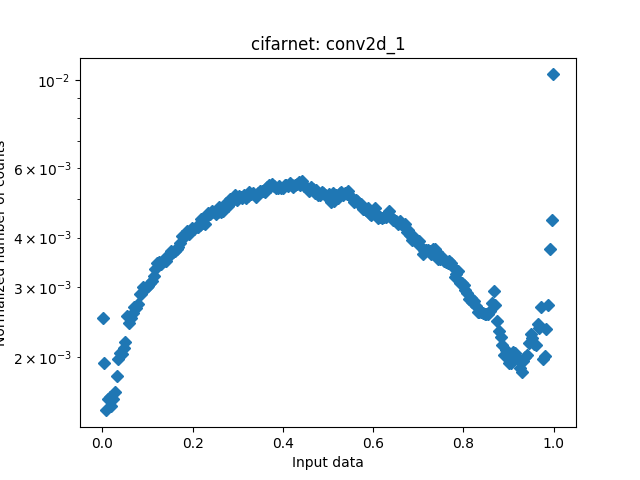
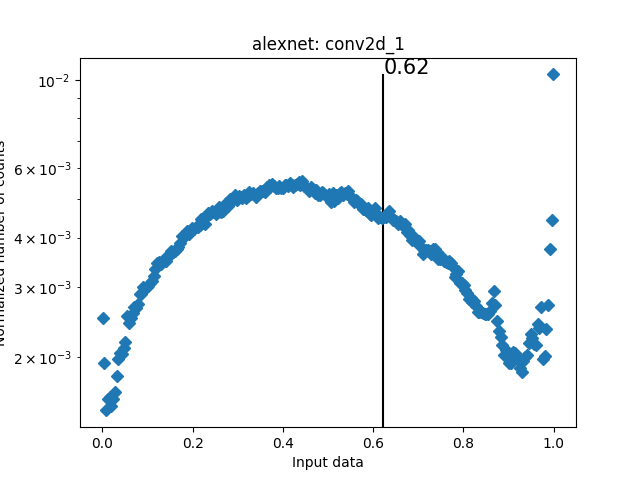
new get T method

Changed region(s): [[0.4062, 0.0625, 0.6875, 0.1562]]

diff --git a/alexnet/get_image_by_npy.py b/alexnet/get_image_by_npy.py
@@ -8,7 +8,7 @@ from tqdm import tqdm
 import json
 
 netname = 'alexnet'
-bin_num = 1024  # 2048
+bin_num = 2048  # 2048
 MIN_BINS = 128   # 128
 
 
@@ -35,26 +35,26 @@ def compute_kl_divergence(P,Q):
     for i in range(length):
         if P[i]!=0:
             if Q[i]==0:
-                sum+=1
+                sum+=1.0
             else:
-                sum+=P[i]*np.log(P[i]/Q[i])
+                sum+=P[i]*np.log((P[i]+1e-5)/(Q[i]+1e-5))
     return sum
 
 
 def threshold_distribution(distribution,target_bin):
+    KL_list = []
+    
     target_threshold = target_bin
     min_kl_divergence = 10000000000000
     length = len(distribution)
 
-
-
-    for threshold in range(target_bin,length):
+    for threshold in tqdm(range(target_bin,length)):
         #t_distribution=np.empty((threshold,))
         t_distribution=copy.deepcopy(distribution[0:threshold])
         t_distribution[threshold - 1] += np.sum(distribution[threshold:])
 
         #get P
-        num_per_bin = threshold / target_bin
+        num_per_bin = float(threshold) / float(target_bin)
 
         quantize_distribution = np.zeros((target_bin,))
 
@@ -85,14 +85,14 @@ def threshold_distribution(distribution,target_bin):
             count = 0
 
             left_upper = int(np.ceil(start))
-            left_scale = 0
+            left_scale = 0.0
             if left_upper > start:
                 left_scale = left_upper - start
                 if t_distribution[left_upper - 1] != 0:
                     count += left_scale
 
             right_lower = int(np.floor(end))
-            right_scale = 0
+            right_scale = 0.0
             if right_lower < end:
                 right_scale = end - right_lower
                 if t_distribution[right_lower] != 0:
@@ -113,22 +113,18 @@ def threshold_distribution(distribution,target_bin):
             for j in range(left_upper,right_lower):
                 if t_distribution[j] != 0:
                     expand_distribution[j] += expand_value
-
         kl_divergence = compute_kl_divergence(t_distribution, expand_distribution)
-
-        #print(threshold,kl_divergence)
-
+        KL_list.append(kl_divergence)
         if kl_divergence < min_kl_divergence:
             min_kl_divergence = kl_divergence
             target_threshold = threshold
 
-    return target_threshold
+    return target_threshold, KL_list
 
 def save_dict(filename, dic):
     '''save dict into json file'''
     with open(filename,'w') as json_file:
         json.dump(dic, json_file, ensure_ascii=False)
-
         
 d = {}
 d['first'] = 'conv2d_1'
@@ -147,17 +143,17 @@ for filename in os.listdir("./layerdata/"):
 
         print("\tgenerate histogram data")
         x, y = get_histogram(data, bin_num)
+        y = y / float(np.sum(y))
         print("\tget threshold")
-        threshold_at_num = threshold_distribution(y, MIN_BINS)
+        threshold_at_num, KL_list = threshold_distribution(y, MIN_BINS)
         threshold = x[threshold_at_num]
 
-        y = y / float(np.sum(y))
 
         print("\tdraw figure...")
         # plt.yscale('symlog', linthreshx=0.0000002)
-        plt.title('{0}: {1}'.format(netname, layer_name))
-        plt.xlabel('Input data')
-        plt.ylabel('Normalized number of counts')
+        plt.title('{0}: {1}'.format(netname, layer_name), fontsize=10)
+        plt.xlabel('Input data', fontsize=10)
+        plt.ylabel('Normalized number of counts', fontsize=10)
         # plt.ylabel('number of counts')
         
         y_tick = [10**i for i in range(-9, 1)]
@@ -167,8 +163,21 @@ for filename in os.listdir("./layerdata/"):
         plt.text(threshold, np.max(y), "%.2f" % (threshold), fontsize=15)
         # plt.scatter(x, y, marker='o')
         plt.semilogy(x, y, '.', marker='D')
-        plt.savefig("./layerdata/" + layer_name + ".png")
-        print("\t./layerdata/" + layer_name + '.png saved')
+        plt.savefig("./layerdata/" + netname + "_" + layer_name + ".png")
+        print("\t./layerdata/" +  netname + "_" + layer_name + '.png saved')
+        plt.cla()
+        
+        plt.title('{0}: {1}'.format(netname, layer_name), fontsize=15)
+        plt.xlabel('Input data', fontsize=15)
+        plt.ylabel('KL-divergence', fontsize=15)
+        # plt.ylabel('number of counts')
+        
+        y_tick = [10**i for i in range(-9, 1)]
+        plt.yticks(y_tick)
+        # plt.scatter(x[MIN_BINS:], KL_list, marker='o')
+        plt.semilogy(x[MIN_BINS:], KL_list, '.', marker='D')
+        plt.savefig("./layerdata/" + netname + "_" + layer_name + "_KL" + ".png")
+        print("\t./layerdata/" +  netname + "_" + layer_name + '.png saved')
         plt.cla()
         
         scale = 1.0 * MAX_INT / threshold

diff --git a/cifarnet/get_image_by_npy.py b/cifarnet/get_image_by_npy.py
@@ -7,9 +7,9 @@ import os
 from tqdm import tqdm
 import json
 
-netname = 'alexnet'
+netname = 'cifarnet'
 bin_num = 1024   # 2048
-MIN_BINS = 128   # 128
+MIN_BINS = 520   # 128
 
 
 MAX_INT = 127
@@ -156,15 +156,15 @@ for filename in os.listdir("./layerdata/"):
         print("\tdraw figure...")
         # plt.yscale('symlog', linthreshx=0.0000002)
         plt.title('{0}: {1}'.format(netname, layer_name))
-        plt.xlabel('Activation value')
-        # plt.ylabel('Normalized number of counts')
-        plt.ylabel('number of counts')
+        plt.xlabel('Input data')
+        plt.ylabel('Normalized number of counts')
+        # plt.ylabel('Input data')
         
         y_tick = [10**i for i in range(-9, 1)]
         plt.yticks(y_tick)
         
         plt.vlines(threshold, 0, np.max(y))
-        plt.text(threshold, np.max(y), "{0}, maxval={1}".format(threshold, np.max(data)), fontsize=15)
+        plt.text(threshold, np.max(y), "%.2f"%threshold, fontsize=15)
         # plt.scatter(x, y, marker='o')
         plt.semilogy(x, y, '.', marker='D')
         plt.savefig("./layerdata/" + layer_name + ".png")

diff --git a/lenet/get_image_by_npy.py b/lenet/get_image_by_npy.py
@@ -7,7 +7,7 @@ import os
 from tqdm import tqdm
 import json
 
-netname = 'alexnet'
+netname = 'lenet'
 bin_num = 1024   # 2048
 MIN_BINS = 128   # 128
 
@@ -156,15 +156,15 @@ for filename in os.listdir("./layerdata/"):
         print("\tdraw figure...")
         # plt.yscale('symlog', linthreshx=0.0000002)
         plt.title('{0}: {1}'.format(netname, layer_name))
-        plt.xlabel('Activation value')
-        # plt.ylabel('Normalized number of counts')
-        plt.ylabel('number of counts')
+        plt.xlabel('Input data')
+        plt.ylabel('Normalized number of counts')
+        # plt.ylabel('number of counts')
         
         y_tick = [10**i for i in range(-9, 1)]
         plt.yticks(y_tick)
         
         plt.vlines(threshold, 0, np.max(y))
-        plt.text(threshold, np.max(y), "{0}, maxval={1}".format(threshold, np.max(data)), fontsize=15)
+        plt.text(threshold, np.max(y), "%.2f"%threshold, fontsize=15)
         # plt.scatter(x, y, marker='o')
         plt.semilogy(x, y, '.', marker='D')
         plt.savefig("./layerdata/" + layer_name + ".png")

diff --git a/alexnet/get_image_by_npy_no_T.py b/alexnet/get_image_by_npy_no_T.py
@@ -148,9 +148,11 @@ for filename in os.listdir("./layerdata/"):
         y = y / float(np.sum(y))
 
         print("\tdraw figure...")
-        plt.title('{0}: {1}'.format(netname, layer_name))
-        plt.xlabel('Input data')
-        plt.ylabel('Normalized number of counts')
+        plt.title('{0}: {1}'.format(netname, layer_name), fontsize=15)
+        plt.xlabel('Input data', fontsize=15)
+        plt.ylabel('Normalized number of counts', fontsize=15)
+	plt.yticks(fontsize=10)
+	plt.xticks(fontsize=10)
         
         y_tick = [10**i for i in range(-9, 1)]
         plt.yticks(y_tick)
